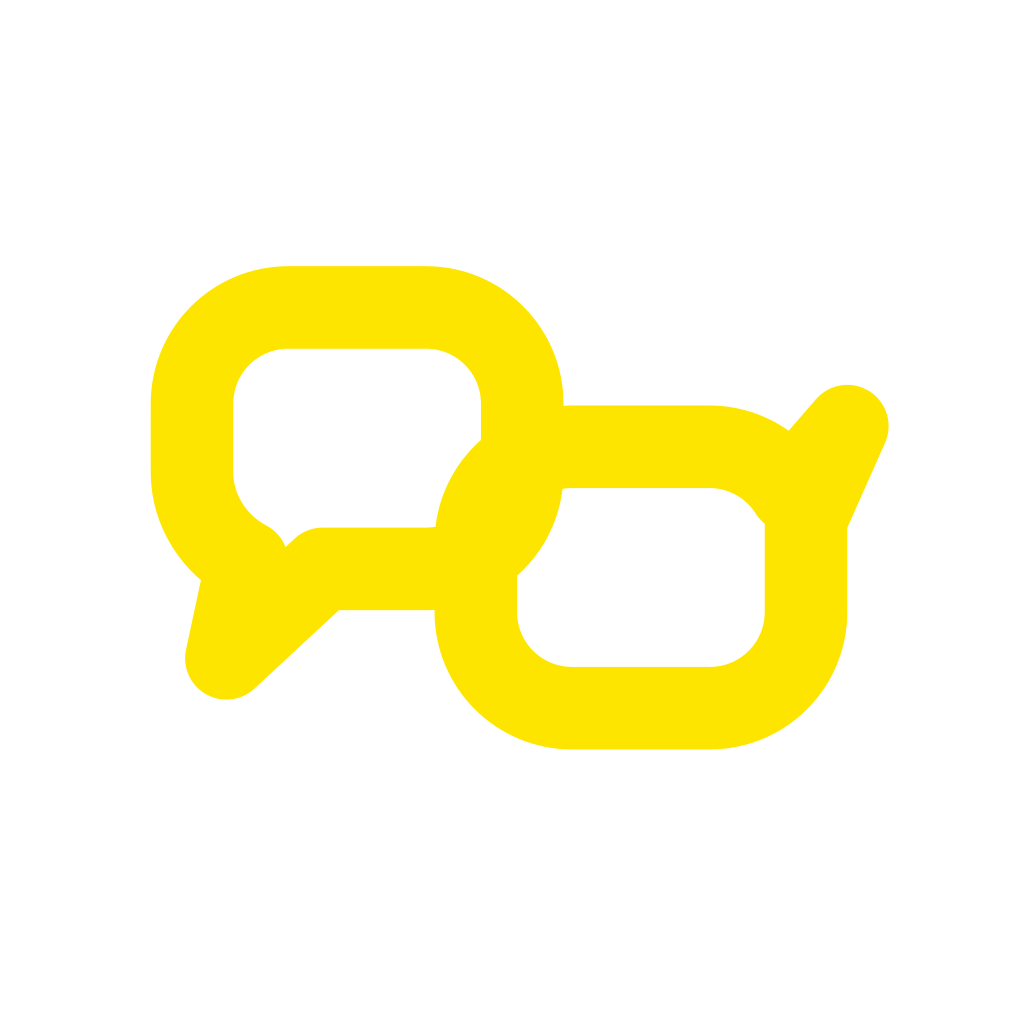
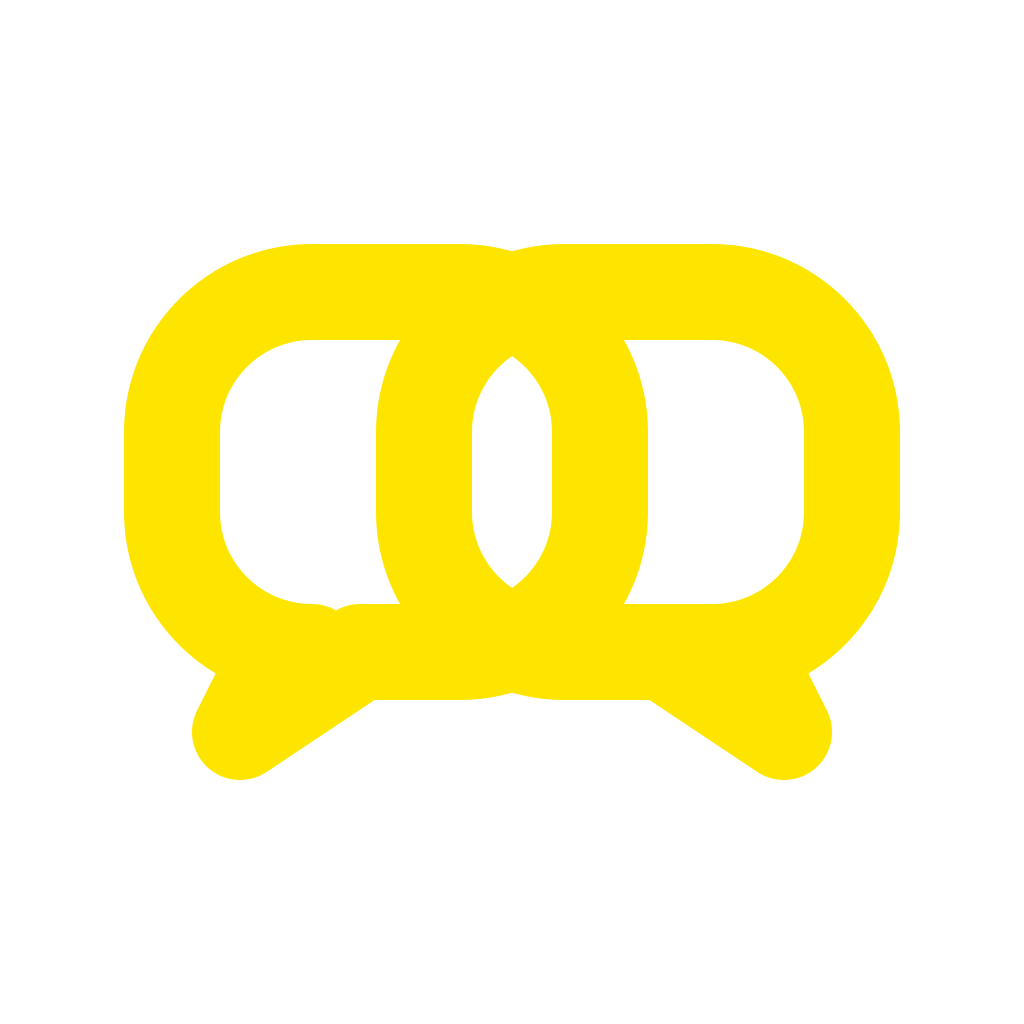
fix(brand): redesign symbol geometry for perfect symmetry and balance

Changed region(s): [[0.0938, 0.2188, 0.9062, 0.7812]]

diff --git a/tools/brand/generate_brand_assets.py b/tools/brand/generate_brand_assets.py
@@ -42,13 +42,14 @@ MUTED = "#68675F"
 STROKE = 96
 SMALL_STROKE = 104
 LEFT_PATH = (
-    "M312 304H472C534 304 584 354 584 416V496C584 558 534 608 472 608"
-    "H352L240 712L264 600C226 580 200 540 200 496V416C200 354 250 304 312 304Z"
+    "M312 292H460A140 140 0 0 1 600 432V512A140 140 0 0 1 460 "
+    "652H360L240 732L280 652H312A140 140 0 0 1 172 512V432A140 "
+    "140 0 0 1 312 292Z"
 )
 RIGHT_PATH = (
-    "M552 416H712C750 416 786 436 806 468L872 392L824 500V608"
-    "C824 670 774 720 712 720H552C490 720 440 670 440 608V528"
-    "C440 466 490 416 552 416Z"
+    "M564 292H712A140 140 0 0 1 852 432V512A140 140 0 0 1 712 "
+    "652H664L784 732L744 652H564A140 140 0 0 1 424 512V432A140 "
+    "140 0 0 1 564 292Z"
 )
 
 SVG_HEADER = '<svg xmlns="http://www.w3.org/2000/svg"'
@@ -71,13 +72,7 @@ def symbol_markup(
     transform: str | None = None,
 ) -> str:
     _ = prefix
-    inner = f"""
-<g transform="translate(20 46) scale(.86)">
-  <g transform="translate(90 50)">
-    <path d="{RIGHT_PATH}" fill="none" stroke="{color}" stroke-width="{stroke}" stroke-linecap="round" stroke-linejoin="round"/>
-  </g>
-  <path d="{LEFT_PATH}" fill="none" stroke="{color}" stroke-width="{stroke}" stroke-linecap="round" stroke-linejoin="round"/>
-</g>""".strip()
+    inner = f"<path d=\"{LEFT_PATH}\" fill=\"none\" stroke=\"{color}\" stroke-width=\"{stroke}\" stroke-linecap=\"round\" stroke-linejoin=\"round\"/>\n<path d=\"{RIGHT_PATH}\" fill=\"none\" stroke=\"{color}\" stroke-width=\"{stroke}\" stroke-linecap=\"round\" stroke-linejoin=\"round\"/>"
     if transform:
         return f'<g transform="{transform}">\n{inner}\n</g>'
     return inner
@@ -98,10 +93,8 @@ def app_icon_markup(*, prefix: str, transform: str | None = None) -> str:
 <rect x="32" y="32" width="960" height="960" rx="216" fill="url(#app-bg)"/>
 <g filter="url(#bubble-shadow)">
   <g transform="translate(22 16) scale(.88)">
-    <g transform="translate(90 50)">
-      <path d="{RIGHT_PATH}" fill="none" stroke="{INK}" stroke-width="{STROKE}" stroke-linecap="round" stroke-linejoin="round"/>
-    </g>
     <path d="{LEFT_PATH}" fill="none" stroke="{INK}" stroke-width="{STROKE}" stroke-linecap="round" stroke-linejoin="round"/>
+    <path d="{RIGHT_PATH}" fill="none" stroke="{INK}" stroke-width="{STROKE}" stroke-linecap="round" stroke-linejoin="round"/>
   </g>
 </g>""".strip()
     if transform:
@@ -190,7 +183,7 @@ def signature_markup(
     symbol = symbol_markup(
         symbol_color,
         prefix=f"{prefix}-mark",
-        transform="translate(-91 -121) scale(.868)",
+        transform="translate(-110 -176) scale(.82)",
     )
     content = f"""
 {symbol}
